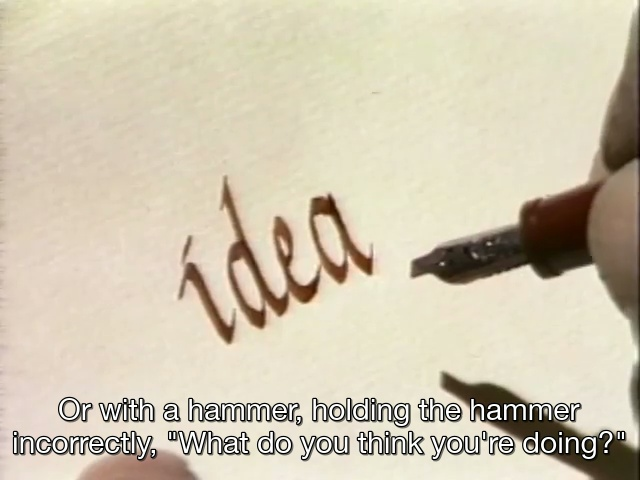
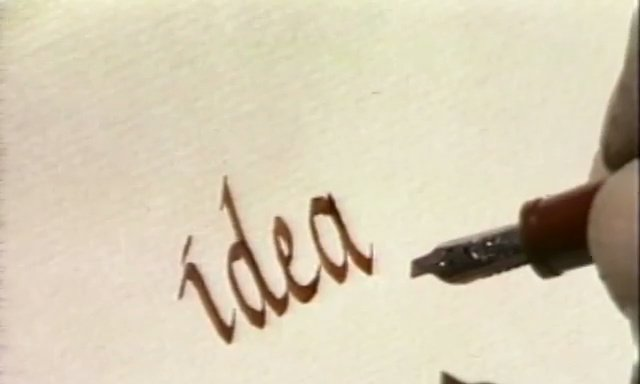
[post] 电子报 #16 裁掉课程截图底部的英文字幕, 原图归档, 更新 alt text 和 beehiiv.html

Changed region(s): [[0.0, 0.0625, 1.0, 1.0]]

diff --git a/newsletter/16-next-newsletter/beehiiv.html b/newsletter/16-next-newsletter/beehiiv.html
@@ -24,7 +24,7 @@
 
 <p>视频里教授手上那支笔，笔尖是平的，像把小扁铲：顺着刃口走线就细，横着走就粗，屏幕上那个 idea 就是这么写出来的。</p>
 
-<img src="./italic-idea.jpg" alt="课程视频截图，平头笔刚在白纸上写完斜体的 idea，竖画粗、连笔细，下方是英文字幕" style="max-width:100%;">
+<img src="./italic-idea.jpg" alt="课程视频截图，平头笔刚在白纸上写完斜体的 idea，竖画粗、连笔细" style="max-width:100%;">
 
 <p>看到练习用的字母，我马上想到可以用 AI 控制摄像头，一旦“看”到我写的字，立刻指出不足。也许我就能更快地进步。但转念一想，写字不光是练手，还要练眼力。用 AI 监督可以做到又快又准，但它也会跳过练眼的过程。离开 AI，我还是写不好字。</p>
 

diff --git a/newsletter/16-next-newsletter/stage-log.md b/newsletter/16-next-newsletter/stage-log.md
@@ -13,3 +13,4 @@
 - 2026-11-02 · Author polished wording in draft.md (opener, mnemonic, Jobs, 十几个/一百多个, pen names, guideline line); beehiiv.html regenerated.
 - 2026-11-02 · _edith pass (author asked): P7 ×3 fixed — guideline paragraphs cut to the nib-spacing payoff, guidelines image moved after the AI-template step (alt text now lists all six lines, 五个笔尖宽 moved to the ruler check), pen paragraph rewritten as what the author saw with one name (平头笔). Taste: 不为人知 → 我从没听过, 两页示范 → 两页练习纸. Typos 十几个 and double 了 fixed. beehiiv.html regenerated.
 - 2026-11-02 · Cross-link added at the cramp mnemonic (L7) to 《用漫画背单词》 (comic-mnemonic-card); beehiiv.html regenerated with link support.
+- 2026-11-02 · italic-idea.jpg cropped to 640×384 to remove the burned-in subtitles (author: distracting); original kept as assets/image-raw/italic-idea-subtitled.jpg; alt text updated; beehiiv.html regenerated. Gate still passes.
